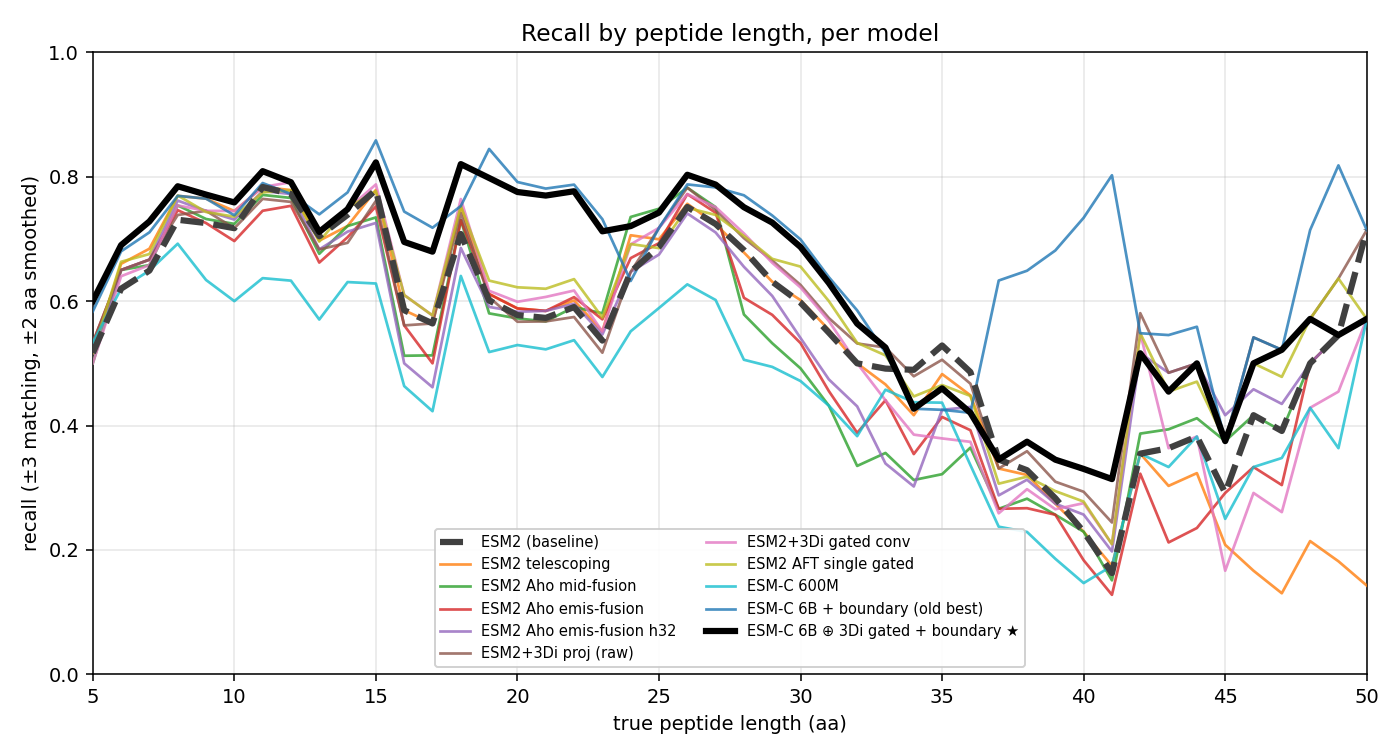
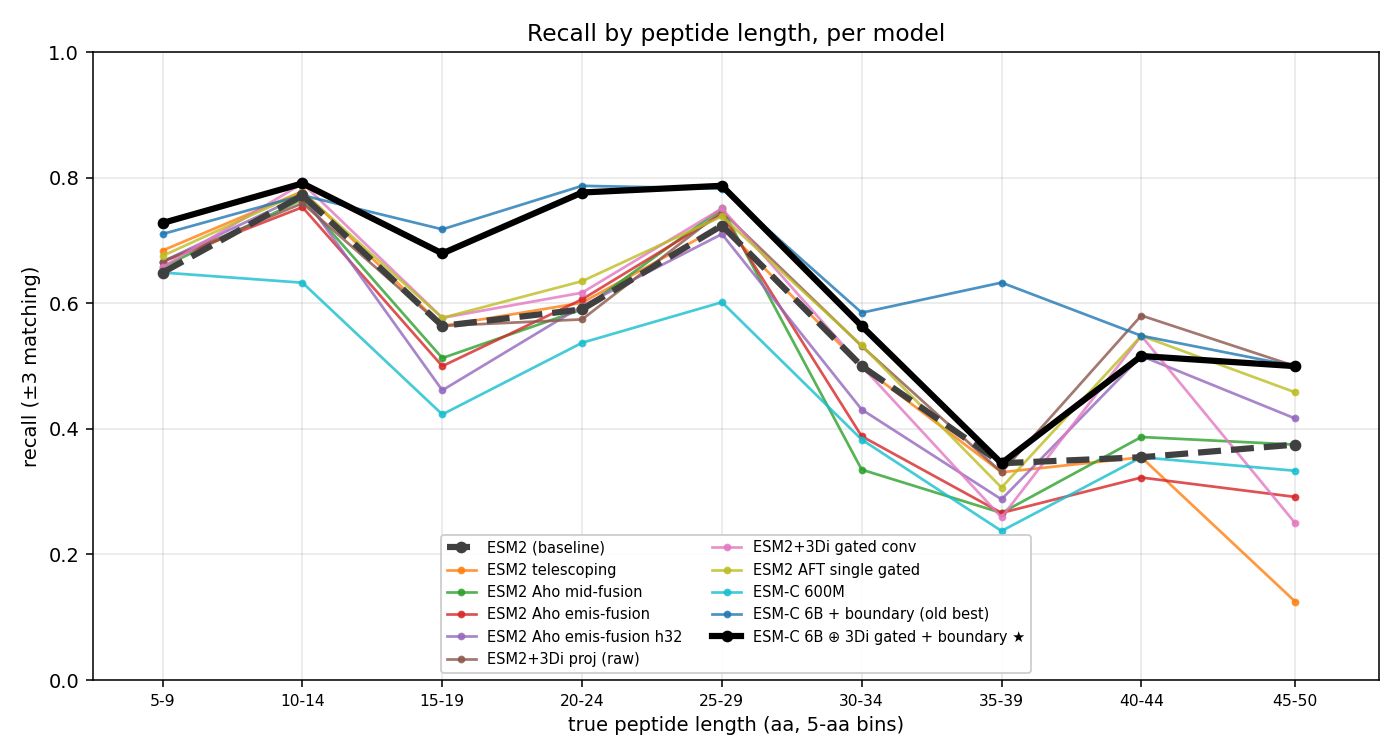
Recall-by-length: fixed 5-aa bins instead of per-integer smoothing
Per-integer curves were noisy — single-length dips on thin tails looked like scary
cliffs that average out across neighbours. Switch to fixed 5-aa bins (5-9, 10-14, ...,
45-50) with markers at bin centers; count-weighted recall per bin. Reads cleanly and
the winner-vs-baseline gap is honest (clear on propeptides 20-44; peptides close, with
the 3Di run's real 35-39 dip now a single averaged bin rather than a spike).

diff --git a/analysis/errors/src/plot_recall_by_length_models.py b/analysis/errors/src/plot_recall_by_length_models.py
@@ -63,23 +63,23 @@ PALETTE = {
 }
 
 
-def recall_smoothed(df, task):
-    """Per-integer recall over lengths 5..50, count-weighted ±WIN smoothing
-    (same convention as the stacked plot): recall(L) = Σmatched[L-WIN..L+WIN]/Σn[..].
-    Returns (xs, recall array, total-n array)."""
+# Fixed 5-aa bins (last one 45-50 to cover the cap at 50): averages neighbouring lengths
+# so single-length noise on thin tails doesn't read as a scary cliff.
+BIN_EDGES = [5, 10, 15, 20, 25, 30, 35, 40, 45, 51]   # [lo, hi) pairs; last bin 45..50
+BIN_CENTERS = [(BIN_EDGES[i] + BIN_EDGES[i + 1] - 1) / 2 for i in range(len(BIN_EDGES) - 1)]
+BIN_LABELS = [f"{BIN_EDGES[i]}-{BIN_EDGES[i+1]-1}" for i in range(len(BIN_EDGES) - 1)]
+
+
+def recall_binned(df, task):
+    """Count-weighted recall in fixed 5-aa bins. Returns (centers, recall, n-per-bin)."""
     t = df[(df["kind"] == "true") & (df["task"] == task)]
-    xs = np.arange(LMIN, LMAX + 1)
-    matched = np.zeros(len(xs)); n = np.zeros(len(xs))
-    for k, L in enumerate(xs):
-        sub = t[t["length"] == L]
-        n[k] = len(sub); matched[k] = sub["matched"].sum()
-    rec = np.full(len(xs), np.nan)
-    for k in range(len(xs)):
-        lo, hi = max(0, k - WIN), min(len(xs), k + WIN + 1)
-        tot = n[lo:hi].sum()
-        if tot > 0:
-            rec[k] = matched[lo:hi].sum() / tot
-    return xs, rec, n
+    rec, npb = [], []
+    for i in range(len(BIN_EDGES) - 1):
+        lo, hi = BIN_EDGES[i], BIN_EDGES[i + 1]
+        sub = t[(t["length"] >= lo) & (t["length"] < hi)]
+        npb.append(len(sub))
+        rec.append(sub["matched"].mean() if len(sub) else np.nan)
+    return np.array(BIN_CENTERS), np.array(rec), np.array(npb)
 
 
 # task -> (output filename, title noun)
@@ -94,25 +94,23 @@ def plot_task(task, dframes):
     fig, ax = plt.subplots(figsize=(10, 5.4))
     print(f"=== {task} ===")
     for run in ordered:
-        xs, rec, _ = recall_smoothed(dframes[run], task)
+        xs, rec, _ = recall_binned(dframes[run], task)
         is_win = run == WINNER
         is_base = run == BASELINE
         bold = is_win or is_base
-        ax.plot(xs, rec,
+        ax.plot(xs, rec, marker="o", markersize=5 if bold else 3,
                 lw=3.2 if bold else 1.4,
                 zorder=10 if is_win else 9 if is_base else 3,
                 color="black" if is_win else ("#404040" if is_base else PALETTE.get(run, "#999999")),
                 linestyle="--" if is_base else "-",
                 alpha=1.0 if bold else 0.8,
                 label=LABELS.get(run, run))
-        # sparse coarse-bin print for the log
-        def at(lo, hi):
-            t = dframes[run]; s = t[(t.kind == "true") & (t.task == task) & (t.length >= lo) & (t.length <= hi)]
-            return f"{s.matched.mean():.3f}" if len(s) else "nan"
-        print(f"{run:42s} 5={at(5,5)} 6-10={at(6,10)} 11-20={at(11,20)} 21-30={at(21,30)} 31-50={at(31,50)}")
+        print(f"{run:42s} " + " ".join(f"{lab}={v:.3f}" if not np.isnan(v) else f"{lab}=nan"
+                                       for lab, v in zip(BIN_LABELS, rec)))
     fname, noun = TASK_OUT[task]
-    ax.set_xlim(LMIN, LMAX); ax.set_ylim(0, 1)
-    ax.set_xlabel(f"true {noun} length (aa)"); ax.set_ylabel("recall (±3 matching, ±2 aa smoothed)")
+    ax.set_xticks(BIN_CENTERS); ax.set_xticklabels(BIN_LABELS, fontsize=8)
+    ax.set_xlim(LMIN - 0.5, LMAX + 0.5); ax.set_ylim(0, 1)
+    ax.set_xlabel(f"true {noun} length (aa, 5-aa bins)"); ax.set_ylabel("recall (±3 matching)")
     ax.set_title(f"Recall by {noun} length, per model")
     ax.grid(alpha=.3); ax.legend(fontsize=7.5, ncol=2, loc="lower center", framealpha=.9)
     fig.tight_layout()
